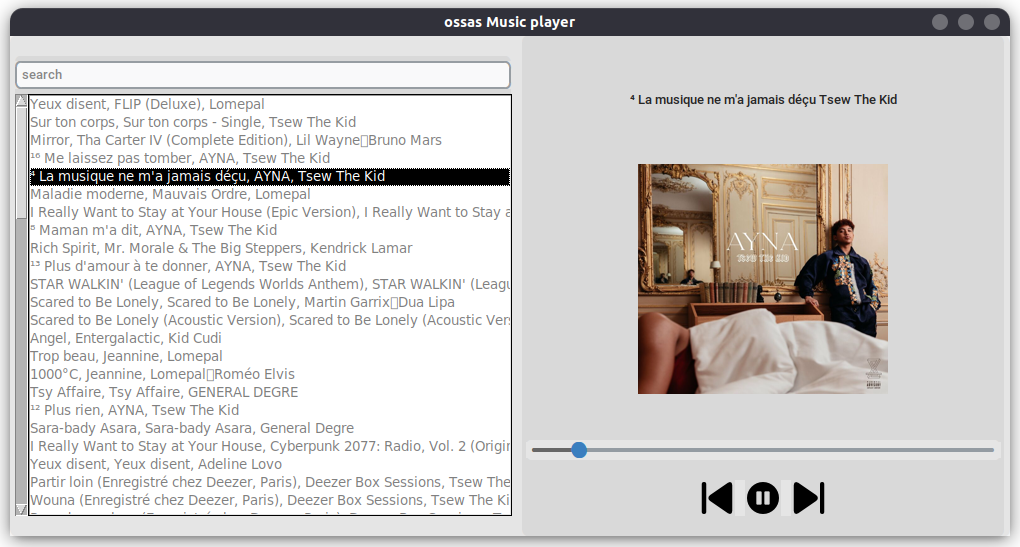
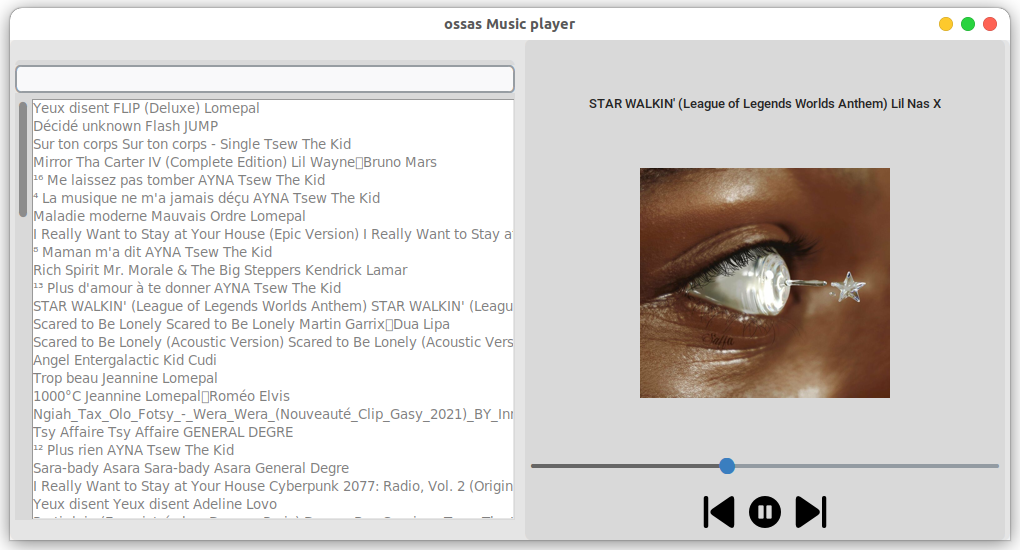
update major:  - add config file  - change scrollbar to customScrollbar  - update ReadMe and new Image

diff --git a/ossas.py b/ossas.py
@@ -1,11 +1,15 @@
-from tkinter import PhotoImage, Listbox, StringVar, Scrollbar, Button
+from tkinter import PhotoImage, Listbox, StringVar, Button as Btn
+
 import PIL
 import customtkinter
+
 from lecteur import lecteur
 
+config = lecteur.read_config(".config")
+
 # Modes: "System" (standard), "Dark", "Light"
-customtkinter.set_appearance_mode("Light")
-customtkinter.set_default_color_theme("dark-blue")
+customtkinter.set_appearance_mode(config["mode"])
+customtkinter.set_default_color_theme(config["theme"])
 
 
 class MusicPlayer(customtkinter.CTk):
@@ -29,7 +33,7 @@ class MusicPlayer(customtkinter.CTk):
 
         self.__position = 0
 
-        self.__pathMp3Dict: dict = lecteur.findMp3File()
+        self.__pathMp3Dict: dict = lecteur.find_audio_file(config["path"])
         self.__all_mp3_title: list[str] = [key for key in self.__pathMp3Dict]
 
         self.__container = customtkinter.CTkFrame(self)
@@ -42,7 +46,7 @@ class MusicPlayer(customtkinter.CTk):
         )
         self.__search_entry.pack(fill="x", side="left", expand=1)
         self.__search_frame.pack(fill="x", pady=5)
-        self.__scrollbar = Scrollbar(self.__left_frame)
+        self.__scrollbar = customtkinter.CTkScrollbar(self.__left_frame)
         self.__scrollbar.pack(side="left", fill="y")
         self.__music_listbox = Listbox(
             self.__left_frame,
@@ -55,7 +59,7 @@ class MusicPlayer(customtkinter.CTk):
             yscrollcommand=self.__scrollbar.set,
         )
         self.__music_listbox.pack(fill="x")
-        self.__scrollbar.config(command=self.__music_listbox.yview)
+        self.__scrollbar.configure(command=self.__music_listbox.yview)
 
         # insert all title on listbox
         for music_title in self.__all_mp3_title:
@@ -74,54 +78,63 @@ class MusicPlayer(customtkinter.CTk):
         self.__image_music.pack()
 
         self.__right_frame_bottom = customtkinter.CTkFrame(self.__right_frame)
-        self.__prev_button = Button(
-            self.__right_frame_bottom,
+
+        # self.__slide_speed = customtkinter.CTkSlider(self.__right_frame_bottom, width=50)
+        # self.__slide_speed.pack(padx=50 ,side="left")
+
+        self.__frame_center_button = customtkinter.CTkFrame(self.__right_frame_bottom)
+        Btn(
+            self.__frame_center_button,
             text=None,
             relief="groove",
             borderwidth=0,
             command=self.prev,
             image=self.__prev_image,
         ).pack(side="left")
-        self.__play_button = Button(
-            self.__right_frame_bottom,
-            text=None,
+        self.__play_button = Btn(
+            self.__frame_center_button,
+            text="",
             relief="groove",
             borderwidth=0,
             command=self.play,
             image=self.__play_image,
         )
         self.__play_button.pack(padx=10, side="left")
-        self.__next_button = Button(
-            self.__right_frame_bottom,
-            text=None,
+        Btn(
+            self.__frame_center_button,
+            text="",
             relief="groove",
             borderwidth=0,
             command=self.next,
             image=self.__text_image,
         ).pack(side="left")
-        self.__right_frame_bottom.pack(pady=20, side="bottom")
 
-        self.__status = customtkinter.CTkFrame(self.__right_frame)
+        # self.__slide_volume = customtkinter.CTkSlider(self.__right_frame_bottom, width=50, command=lambda value: (
+        # lecteur.set_volume(value)), from_=0, to=100) self.__slide_volume.pack(padx=50, side="right")
+
+        self.__frame_center_button.pack(anchor="center")
+
+        self.__right_frame_bottom.pack(side="bottom", pady=10)
+
         self.scale = customtkinter.CTkSlider(
-            self.__status, command=lambda x: (self.changePositon(x))
+            self.__right_frame, command=lambda x: (self.change_position(x))
         )
-        self.scale.pack(side="left", fill="x", ipadx=150)
-        self.__status.pack(fill="x", side="bottom", ipady=2, padx=4)
+        self.scale.pack(side="bottom", fill="x", ipadx=150, pady=10)
 
         self.__right_frame.pack(side="right", fill="y", expand=1, padx=5)
 
         self.__container.pack(fill="y", anchor="sw")
 
-        self.__music_listbox.bind("<Double-Button-1>", self.selectItemInListbox)
+        self.__music_listbox.bind("<Double-Button-1>", lambda x: self.select_item_in_listbox(x))
         self.__search_entry.bind("<KeyRelease>", self.search)
 
-        self.playTime()
+        self.play_time()
 
     def music_now(self, index) -> str:
         key = self.__music_listbox.get(index)
         return self.__pathMp3Dict[key]
 
-    def upateTitleAndImage(self, index) -> None:
+    def update_title_and_image(self, index) -> None:
         titre, _, artist, image = lecteur.get_tags(self.music_now(index))
 
         if image is not None:
@@ -129,32 +142,32 @@ class MusicPlayer(customtkinter.CTk):
                 file.write(image)
             image = customtkinter.CTkImage(PIL.Image.open(".tmp.jpg"), size=(250, 230))
         else:
-            image = self.__album_image 
+            image = self.__album_image
 
         self.__image_music.configure(image=image)
         self.__titre_text.set(f"{titre} {artist}")
 
-    def changePositon(self, position: float):
-        lecteur.scrool(position)
+    def change_position(self, position: float):
+        lecteur.set_position(position)
         self.__position = position
 
-    def playTime(self) -> None:
+    def play_time(self) -> None:
         # update scale postion
         if self.__play_status:
             self.__position += 1
-            _, time_left = lecteur.getPosition()
+            _, time_left = lecteur.get_position()
             self.scale.set(self.__position)
             if time_left == "59:59":
                 self.next()
-        self.after(1000, self.playTime)
+        self.after(1000, self.play_time)
 
     def play(self, index: int | str = "active") -> None:
         self.__play_status = True
         total_len_music = len(self.__music_listbox.get(0, "end"))
         if index == total_len_music:
             index = 0
-        sond = self.music_now(index)
-        self.scale._to = lecteur.play(sond)
+        song = self.music_now(index)
+        self.scale._to = lecteur.play(song)
         self.scale.set(0)
         self.__position = 0
         self.__play_button.config(image=self.__pause_image, command=self.pause)
@@ -165,7 +178,7 @@ class MusicPlayer(customtkinter.CTk):
         self.__music_listbox.yview(
             "moveto", (self.__activate_now - self.__scrolloff) / total_len_music,
         )  # update yview
-        self.upateTitleAndImage(self.__activate_now)
+        self.update_title_and_image(self.__activate_now)
 
     def pause(self) -> None:
         if self.__play_status:
@@ -182,22 +195,22 @@ class MusicPlayer(customtkinter.CTk):
         self.__activate_now -= 1
         self.play(self.__activate_now)
 
-    def selectItemInListbox(self, e: str) -> None:
+    def select_item_in_listbox(self, e: str) -> None:
         self.play()
 
-    def updateMusicListbox(self, data: str) -> None:
+    def update_music_listbox(self, data: list[str]) -> None:
         self.__music_listbox.delete(0, "end")
         for result in data:
             self.__music_listbox.insert("end", result)
 
     def search(self, e: str) -> None:
         search_output = self.__search_entry.get()
-        data = [
+        search_result = [
             title
             for title in self.__all_mp3_title
             if search_output.lower() in title.lower()
         ]
-        self.updateMusicListbox(data)
+        self.update_music_listbox(search_result)
 
 
 if __name__ == "__main__":

diff --git a/lecteur/lecteur.py b/lecteur/lecteur.py
@@ -1,30 +1,40 @@
-from os import path, walk
-from mutagen.mp3 import MP3
-import pygame
-import eyed3
 import time
+from os import path, walk
+
+import eyed3
+import pygame
+from mutagen.mp3 import MP3
 
 pygame.mixer.init()
 
 PLAY: bool = True
 
 
+def read_config(conf: str = "../.config") -> dict:
+    config = {}
+    with open(conf, "r") as config_file:
+        for c in config_file.readlines():
+            key, value = c.strip("\n").split("=")
+            config[key.strip(" ")] = value.strip(" ")
+    return config
+
+
 def get_tags(song_path: str) -> tuple:
     audio_file = eyed3.load(song_path)
     img = None
     if audio_file is not None:
-        titre = audio_file.tag.title or "unknow"
-        album_name = audio_file.tag.album or "unknow"
-        artist_name = audio_file.tag.artist or "unknow"
+        titre = audio_file.tag.title or "unknown"
+        album_name = audio_file.tag.album or "unknown"
+        artist_name = audio_file.tag.artist or "unknown"
         album_image = audio_file.tag.images
         for image in album_image:
             img = image.image_data
     else:
         titre = song_path.split("/")[-1].split(".")[0]
-        album_name = "unknow"
-        artist_name = "unknow"
+        album_name = "unknown"
+        artist_name = "unknown"
 
-    return (titre, album_name, artist_name, img)
+    return titre, album_name, artist_name, img
 
 
 def play(song_path: str) -> float:
@@ -34,14 +44,14 @@ def play(song_path: str) -> float:
     return audio.info.length
 
 
-def scrool(postion: float) -> None:
-    pygame.mixer.music.set_pos(postion)
+def set_position(position: float) -> None:
+    pygame.mixer.music.set_pos(position)
 
 
-def getPosition() -> tuple[float, str]:
-    postion: float = pygame.mixer.music.get_pos() / 1000
-    postion_as_time_format: str = time.strftime("%M:%S", time.gmtime(postion))
-    return postion, postion_as_time_format
+def get_position() -> tuple[float, str]:
+    position: float = pygame.mixer.music.get_pos() / 1000
+    position_as_time_format: str = time.strftime("%M:%S", time.gmtime(position))
+    return position, position_as_time_format
 
 
 def pause() -> bool:
@@ -55,12 +65,12 @@ def pause() -> bool:
     return PLAY
 
 
-def findMp3File(search_path: str = "/mnt/d/Music") -> dict:
+def find_audio_file(search_path: str) -> dict:
     file_dict: dict = {}
     for root, dir, files in walk(search_path):
         for file in files:
             if ".mp3" in file:
                 audio_file = path.join(root, file)
                 titre, album, artist, _ = get_tags(audio_file)
-                file_dict[f"{titre}, {album}, {artist}"] = audio_file
+                file_dict[f"{titre} {album} {artist}"] = audio_file
     return file_dict

diff --git a/README.md b/README.md
@@ -9,6 +9,15 @@ git clone github.com/j03-dev/ossas-MusicPlayer
 cd ossas-MusicPlayer
 python3 -m pip install -r requirement.txt
 ```
+
+## config
+
+_open_ **.config** and change<br>
+
+```
+path = your music directory
+```
+
 ## for run ossas
 
 ```bash
